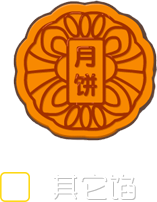
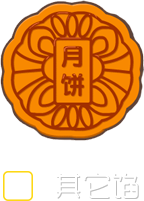
1.0.27

diff --git a/style/comm.css b/style/comm.css
@@ -353,7 +353,8 @@ body{
 }
 
 .chooseOther {
-  background-image: url("../images/chooseOther.png");
+  background-image: url("../images/chooseOther.png") ;
+  background-repeat: repeat-y;
   position: absolute;
   left: 524px;
   top: 833px;
@@ -371,7 +372,7 @@ body{
   color: #fff;
   text-align: center;
   top: 179px;
-  left: 6px;
+  left: 9px;
   position: absolute;
 }
 

diff --git a/index.html b/index.html
@@ -194,7 +194,6 @@
       $('.fruits4').delay(2000).show(0);
       $('.fruits5').delay(2000).show(0);
       $('.fruits6').delay(2000).show(0);
-
     });
 
     $('#chooseOk').click(function() {
